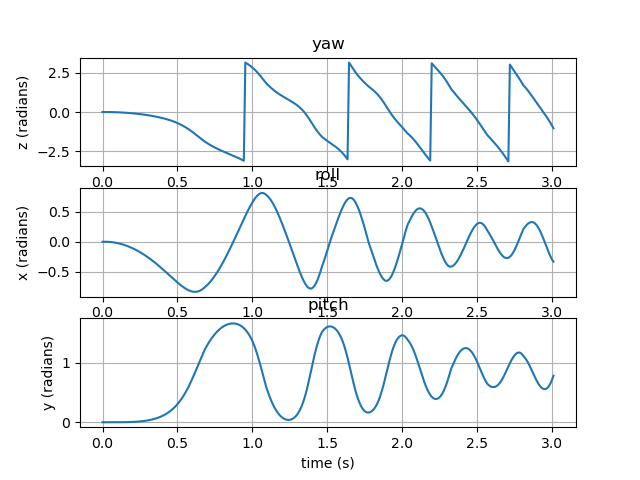
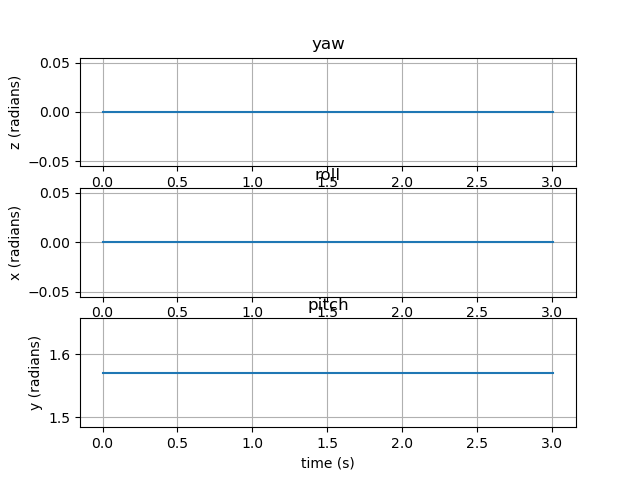
Fixed Lack of Gravity

diff --git a/main.py b/main.py
@@ -35,14 +35,14 @@ def main():
     dep_cams = []
     IMU = mrd.IMU(m_IMU,np.array([0,0,0],dtype=float),np.array([0,0,0],dtype=float))
     #Normal Quadrotor rotors
-    rotors.append(mrd.Rotor(m_rotor,np.array([0,0,0],dtype=float),np.array([d,0,0],dtype=float),-10,C_q,C_t))
-    rotors.append(mrd.Rotor(m_rotor,np.array([0,0,0],dtype=float),np.array([0,d,0],dtype=float),9,C_q,C_t))
-    rotors.append(mrd.Rotor(m_rotor,np.array([0,0,0],dtype=float),np.array([-d,0,0],dtype=float),-10,C_q,C_t))
-    rotors.append(mrd.Rotor(m_rotor,np.array([0,0,0],dtype=float),np.array([0,-d,0],dtype=float),10,C_q,C_t))
+    rotors.append(mrd.Rotor(m_rotor,np.array([0,0,0],dtype=float),np.array([d,0,0],dtype=float),-0,C_q,C_t))
+    rotors.append(mrd.Rotor(m_rotor,np.array([0,0,0],dtype=float),np.array([0,d,0],dtype=float),0,C_q,C_t))
+    rotors.append(mrd.Rotor(m_rotor,np.array([0,0,0],dtype=float),np.array([-d,0,0],dtype=float),-0,C_q,C_t))
+    rotors.append(mrd.Rotor(m_rotor,np.array([0,0,0],dtype=float),np.array([0,-d,0],dtype=float),0,C_q,C_t))
 
     dep_cams.append(mrd.DepthCamera(m_dep_cam, rot_vec=np.array([0,0,0],dtype=float), t_vec=np.array([0,0,d],dtype=float),AoV=AoV,K = K,res = res))
     
-    quad = mrd.MultiRotor(m_centroid, rot_vec=np.array([0,0,0],dtype=float),t_vec=np.array([1,1,1],dtype=float), ang_vel=np.array([0,0,0],dtype=float), rotors=rotors, dep_cams = dep_cams, IMU = IMU)
+    quad = mrd.MultiRotor(m_centroid, rot_vec=np.array([0,0,np.pi/2],dtype=float),t_vec=np.array([1,1,1],dtype=float), ang_vel=np.array([0,0,0],dtype=float), rotors=rotors, dep_cams = dep_cams, IMU = IMU)
     print(f"Quadrotor Inertial Tensor: \n{quad.calculate_inertial_tensor()}")
     print(f"Sum Of Forces: {quad.calculate_sum_of_forces_bf()}")
     print(f"Sum of Torque From Thrust: {quad.calculate_torque_from_thrust_bf()}")
@@ -50,21 +50,21 @@ def main():
     for i in range(300):
         quad.simulate_timestep(delta_t,obst_wf)
     
-    print(quad.t_vec_history)
-    print(quad.rot_vec_history)
+    # print(quad.t_vec_history)
+    # print(quad.rot_vec_history)
     print(quad.T)
-    print(np.linalg.norm(quad.T[:,0]))
-    print(np.linalg.norm(quad.T[:,1]))
-    print(np.linalg.norm(quad.T[:,2]))
-    print(np.linalg.norm(quad.T[0,:3]))
-    print(np.linalg.norm(quad.T[1,:3]))
-    print(np.linalg.norm(quad.T[2,:3]))
-    print(quad.dep_cams[0].depth_frame.shape)
-    print(np.max(quad.dep_cams[0].depth_frame))
-    print(np.unravel_index(np.argmax(quad.dep_cams[0].depth_frame),quad.dep_cams[0].depth_frame.shape))
+    # print(np.linalg.norm(quad.T[:,0]))
+    # print(np.linalg.norm(quad.T[:,1]))
+    # print(np.linalg.norm(quad.T[:,2]))
+    # print(np.linalg.norm(quad.T[0,:3]))
+    # print(np.linalg.norm(quad.T[1,:3]))
+    # print(np.linalg.norm(quad.T[2,:3]))
+    # print(quad.dep_cams[0].depth_frame.shape)
+    # print(np.max(quad.dep_cams[0].depth_frame))
+    # print(np.unravel_index(np.argmax(quad.dep_cams[0].depth_frame),quad.dep_cams[0].depth_frame.shape))
 
-    plt.plot_attitude(quad.rot_vec_history, delta_t)
-    plt.plot_position_3d(quad.t_vec_history,obst_wf)
+    # plt.plot_attitude(quad.rot_vec_history, delta_t)
+    # plt.plot_position_3d(quad.t_vec_history,obst_wf)
 
 
 if __name__ == "__main__":

diff --git a/MultiRotorDynamics.py b/MultiRotorDynamics.py
@@ -103,7 +103,18 @@ class MultiRotor:
 
         self.t_vec_history = np.reshape(t_vec,(3,1))
         self.rot_vec_history = np.reshape(rot_vec,(3,1))
+
+        self.total_mass = self.calculate_total_mass()
         
+    def calculate_total_mass(self):
+        m = 0
+        m += self.m
+        m += self.IMU.m
+        for rotor in self.rotors:
+            m += rotor.m
+        for dep_cam in self.dep_cams:
+            m += dep_cam.m
+        return m
     
     def calculate_inertial_tensor(self):
         J = np.zeros((3,3),dtype=float)
@@ -124,9 +135,7 @@ class MultiRotor:
         sum_force = np.zeros((3,))
         for rotor in self.rotors:
             sum_force += np.reshape(rotor.get_force_bf(),(3,))
-        rot_mat = R.from_euler("zxy",self.rot_vec)
-        rot_mat = rot_mat.as_matrix()
-        sum_force -= np.reshape(rot_mat@rotor.get_force_bf(),(3,))
+        sum_force -= self.R.T@np.array([0,0,self.total_mass*g])#np.reshape(self.R@rotor.get_force_bf(),(3,)) #This doesn't make any sense
         return sum_force
 
     def calculate_torque_from_thrust_bf(self):
@@ -157,9 +166,6 @@ class MultiRotor:
         return depth_frames
 
     def simulate_timestep(self,delta_t,obst_wf):
-        rot_mat = R.from_euler("zxy",self.rot_vec)
-        rot_mat = rot_mat.as_matrix()
-        
         #Pose
         self.t_vec += self.t_vec_dot*delta_t #1a)
         self.R += self.R_dot*delta_t
@@ -173,8 +179,8 @@ class MultiRotor:
         
         #velocity
         self.ang_vel_dot = np.linalg.solve(self.J,(-np.cross(self.ang_vel,self.J@self.ang_vel)+self.calculate_sum_of_torques_bf())) #1d)
-        self.t_vec_dot += rot_mat@self.calculate_sum_of_forces_bf()*delta_t #1b)
-        self.R_dot = rot_mat@ut.skew(self.ang_vel) #1c)
+        self.t_vec_dot += self.R@self.calculate_sum_of_forces_bf()*delta_t/self.total_mass #1b)
+        self.R_dot = self.R@ut.skew(self.ang_vel) #1c)
         
         self.time += delta_t
 
@@ -184,4 +190,5 @@ class MultiRotor:
         self.rot_vec_history = np.append(self.rot_vec_history,np.reshape(self.rot_vec,(3,1)),1)
         self.set_depth_frames(obst_wf)
         self.depth_frames = self.get_depth_frames()
+        # self.IMU.update_estimates(self.calculate_sum_of_forces_bf(),self.calculate_sum_of_torques_bf())
 

diff --git a/utils.py b/utils.py
@@ -14,12 +14,9 @@ def transformation_matrix(R,t):
 
 #Performs a coordinate transformation on the points (3, n) using T (4,4)
 def coordinate_transformation(T, points):
-    print(T)
-    print(points)
     if not (points.shape[0] == 4):
         points = np.append(points,np.ones((1,points.shape[1])),0)
     new_frame_points = np.linalg.solve(T,points)
-    print(new_frame_points)
     return new_frame_points
     
 #Calculates focal_length given AoV and sensor_sizes along [Horizontal, Vertical, Diagonal]
